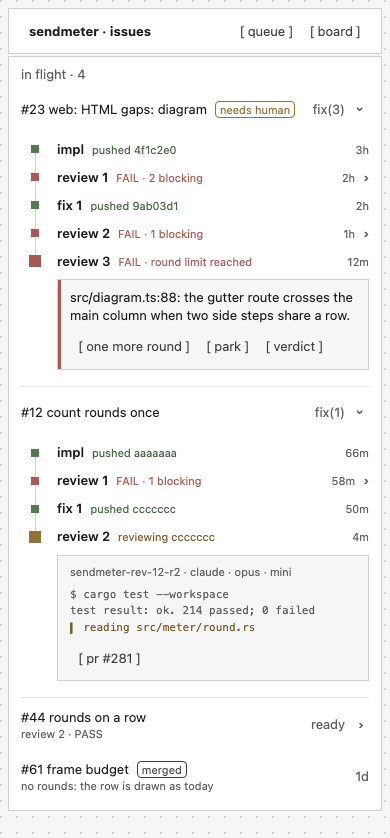
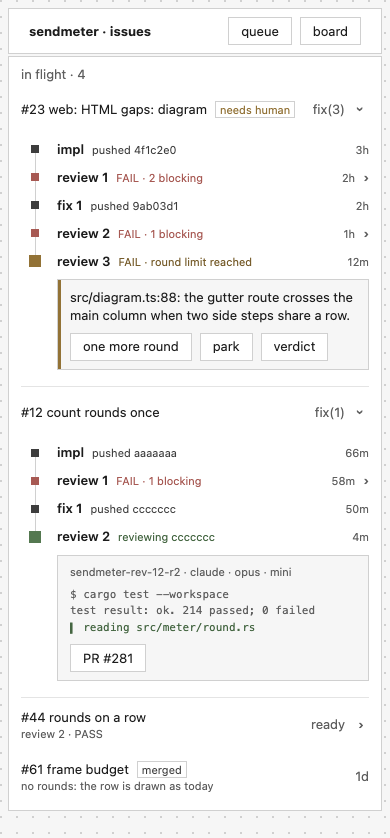
design(#44): rounds: the scene's state colours (q2186), box buttons and grey-edged square tags per #53/#57

diff --git a/docs/design/rounds/states.html b/docs/design/rounds/states.html
@@ -9,14 +9,14 @@
 <script>
 const R = (name, state, summary, extra = {}) => ({ id: name, name, state, summary, since: "5m", ...extra });
 const cases = [
-  ["1 · markers and tones", "A square marker per round on a 1px rail, 8px; the current (last) round's is 12px. Green: done, merged. Red: fail, needs. Ochre: working. Grey: idle. The summary takes the same tone as text.", [
+  ["1 · markers and tones", "A square marker per round on a 1px rail, 8px; the current (last) round's is 12px. The state table of the scene and the diagram: working and merged green, needs ochre, fail brick red, done ink, idle a hollow square. The summary takes the tone of its marker.", [
     [{ id: "a", title: "every state", rounds: [R("idle", "idle", "not started"), R("done", "done", "pushed 4f1c2e0"), R("merged", "merged", "into staging"), R("fail", "fail", "FAIL · 2 blocking"), R("needs", "needs", "waits on you"), R("working", "working", "running")] }, true]]],
   ["2 · folded and open", "A row with rounds is a fold: a tap toggles it, and its chevron turns. Folded, it is today's row plus the chevron. Open, the subtitle hides (the rounds say it). It opens by itself when the last round needs you.", [
     [{ id: "b", title: "#12 folded", subtitle: "review 2 · PASS", value: "ready", rounds: [R("review 1", "fail", "FAIL"), R("review 2", "done", "PASS")] }],
     [{ id: "c", title: "#23 open by itself", subtitle: "hidden while open", value: "fix(3)", rounds: [R("review 2", "fail", "FAIL"), R("review 3", "needs", "round limit reached", { links: [{ label: "one more round" }, { label: "park" }] })] }]]],
   ["3 · a past round's tap", "A past round with a tap is a button (or a link for a url) with a chevron; one without a tap is plain text. The current round's line never taps: its body holds the actions.", [
     [{ id: "d", title: "#7 taps", rounds: [R("review 1", "fail", "FAIL · tap opens the verdict", { tap: { sheet: "/v/1" } }), R("fix 1", "done", "no tap"), R("review 2", "working", "the current round")] }, true]]],
-  ["4 · the current round's body", "Only the last round draws a body, in order: its lane (name · harness · model · host, then its lines in mono; a working round's last line is live in ochre), its blocks, its links as buttons. A body with none of them is not drawn. A needs round's body gets a 3px red edge marker, never a red border.", [
+  ["4 · the current round's body", "Only the last round draws a body, in order: its lane (name · harness · model · host, then its lines in mono; a working round's last line is live in green), its blocks, its links as buttons. A body with none of them is not drawn. A needs round's body gets a 3px ochre edge marker, never a coloured border.", [
     [{ id: "e", title: "lane only", rounds: [R("impl", "working", "writing", { lane: { name: "blocks-impl-44", harness: "claude", host: "mini", lines: ["web/src/render/row.ts +38", "running just test"] } })] }, true],
     [{ id: "f", title: "nothing to show", rounds: [R("impl", "done", "pushed 1d2e3f4"), R("review 1", "idle", "queued")] }, true]]],
   ["5 · long text", "Name and summary are one line each and end in \"…\"; the name keeps at least 40% of the line, the time never shrinks. Lane lines end in \"…\" too, never wrap.", [

diff --git a/docs/design/rounds/rounds.css b/docs/design/rounds/rounds.css
@@ -7,19 +7,20 @@
 .rd{position:relative;display:grid;grid-template-columns:var(--ctl) minmax(0,1fr);column-gap:var(--s2)}
 .rdm{position:relative;z-index:1;place-self:start center;margin-top:calc(var(--ctl) / 2 - 4px);width:8px;height:8px;background:var(--mute);border-radius:var(--radius,0)}
 .rd.now>.rdm{margin-top:calc(var(--ctl) / 2 - 6px);width:12px;height:12px}
-.rd.done>.rdm,.rd.merged>.rdm{background:var(--g)}.rd.working>.rdm{background:var(--a)}.rd.fail>.rdm,.rd.needs>.rdm{background:var(--r)}
+.rd.working>.rdm,.rd.merged>.rdm{background:var(--g)}.rd.needs>.rdm{background:var(--a)}.rd.fail>.rdm{background:var(--r)}.rd.done>.rdm{background:var(--l)}
+.rd.idle>.rdm{background:none;box-shadow:inset 0 0 0 1px var(--mute)}
 .rdl{display:flex;align-items:baseline;gap:var(--s2);min-height:var(--ctl);padding:calc((var(--ctl) - 1.4em) / 2) 0;box-sizing:border-box;color:inherit;text-decoration:none}
 .rdl.tap{cursor:pointer}.rdl.tap:focus-visible{outline:2px solid var(--l);outline-offset:2px}
 .rdn{flex:none;max-width:60%;font-weight:600;white-space:nowrap;overflow:hidden;text-overflow:ellipsis}
 .rdu{flex:1;min-width:0;color:var(--mute);font-size:var(--fs-meta);white-space:nowrap;overflow:hidden;text-overflow:ellipsis}
-.rd.done .rdu,.rd.merged .rdu{color:var(--fk-g)}.rd.working .rdu{color:var(--fk-a)}.rd.fail .rdu,.rd.needs .rdu{color:var(--r)}
+.rd.working .rdu,.rd.merged .rdu{color:var(--fk-g)}.rd.needs .rdu{color:var(--fk-a)}.rd.fail .rdu{color:var(--r)}.rd.done .rdu{color:var(--fk-l)}
 .rdt{flex:none;margin-left:auto;color:var(--mute);font-size:var(--fs-meta);white-space:nowrap}
 .rdl .rc{flex:none;color:var(--mute);font-weight:700}
 .rdb{display:flex;flex-direction:column;gap:var(--s2);margin:var(--s1) 0 var(--s1);padding:var(--s2) var(--s3);border:1px solid var(--edge);border-radius:var(--radius,0);background:var(--bg)}
-.rd.needs .rdb{box-shadow:inset 3px 0 0 var(--r)}
+.rd.needs .rdb{box-shadow:inset 3px 0 0 var(--a)}
 .rdh{color:var(--mute);font-size:var(--fs-meta)}
 .rdo{margin:0;padding:0;font:var(--fs-meta)/1.5 ui-monospace,SFMono-Regular,Menlo,monospace;color:var(--mute)}
 .rdo>div{white-space:pre;overflow:hidden;text-overflow:ellipsis}
-.rdo .live{color:var(--fk-a)}
-.rdk{display:flex;flex-wrap:wrap;gap:var(--s2) var(--s4);padding:0 var(--s2)}
+.rdo .live{color:var(--fk-g)}
+.rdk{display:flex;flex-wrap:wrap;gap:var(--s2)}
 .rdb>.txt{margin:0}

diff --git a/docs/design/rounds/page.css b/docs/design/rounds/page.css
@@ -1,4 +1,4 @@
-/* The host page for these previews only: #53's built-in default pair as merged (web/src/gen/schemes.ts, defaultStyle), light on :root, dark by the OS; square tiles, 2px seam, dot grid. */
+/* The host page for these previews only, with the shared controls as #53/#57 draw them (box buttons, square tags with a grey edge), not today's renderer: #53's built-in default pair as merged (web/src/gen/schemes.ts, defaultStyle), light on :root, dark by the OS; square tiles, 2px seam, dot grid. */
 :root{color-scheme:light dark;
 --bg:#f6f6f6;--card:#ffffff;--edge:#d0d0d0;--line:#e4e4e4;--scrim:#0000004d;--fg:#1c1c1c;--mute:#5e5e5e;
 --l:#3d3d3d;--link:#3d3d3d;--g:#547850;--a:#927236;--r:#a75953;--p:#74678e;--c:#3c797d;
@@ -17,3 +17,8 @@ main{max-width:880px;margin:0 auto;padding:var(--s4);display:grid;grid-template-
 .note{color:var(--mute);font-size:var(--fs-meta);margin:var(--s1) 0 var(--s2)}
 .cases{display:grid;grid-template-columns:repeat(auto-fill,minmax(320px,1fr));gap:var(--seam)}
 @media (max-width:600px){main{padding:var(--s2)}.tile{padding:var(--s2) var(--s3)}}
+button,a.btn{height:var(--ctl);padding:0 var(--s3);border:1px solid var(--edge);background:var(--card);color:var(--fg);text-transform:none}
+button::before,a.btn::before,button::after,a.btn::after{content:none}
+button:hover,a.btn:hover{border-color:var(--mute)}
+.tag{border:1px solid var(--edge);border-radius:0}
+.tabh{display:flex;align-items:center;gap:var(--s2)}.tabh>.tw{margin-right:auto}

diff --git a/docs/design/rounds/README.md b/docs/design/rounds/README.md
@@ -1,21 +1,21 @@
 ## Summary
 
-Decision: on the web, a row that carries `rounds` becomes a fold, as on Swift. Folded, it is today's row plus a chevron. Open, its rounds hang under it on a thin rail: one line per round (name, a short summary in its state colour, its age), a small square marker in the state colour, the last round's marker larger. Only the last round shows a body: its lane and live log lines, its blocks, its links as buttons. It opens by itself when the last round needs you. A row with no rounds is drawn exactly as today. Look: #53's merged default pair, colour only in markers and text.
+Decision: on the web, a row that carries `rounds` becomes a fold, as on Swift. Folded, it is today's row plus a chevron. Open, its rounds hang under it on a thin rail: one line per round (name, a short summary, its age) and a small square marker, the last round's larger. Only the last round shows a body: its lane and live log lines, its blocks, its links as buttons. It opens by itself when the last round needs you. A row with no rounds is drawn exactly as today. Revised (q2186), colours only: the state table of the scene design and the diagram (working and merged green, needs ochre, fail brick red, done ink, idle a hollow square); a summary takes its marker's tone. Shared controls follow #53/#57: box buttons, square tags with a grey edge.
 Screens: an issue list with four rows (needs you and open by itself, working and opened, folded, no rounds), and a sheet of every state. Each light and dark, at 1440 and 390.
-Open questions: (1) Swift draws round markers as circles; I made them square to match #53's square markers. Keep square? (2) Should the fold's open or shut state survive a redraw only (like other folds, `c.open`), or be remembered across visits? I assumed redraw only.
+Open questions: none. Markers stay square; the fold's state lasts for the visit only, as decided in q2186.
 
 ## Images
 
 | Image | What it shows |
 |---|---|
-| `rounds-light-1440.png`, `rounds-dark-1440.png` | An issue list tile. `#23` ends in a `needs` round, so it is open without a tap: five rounds on the rail, past ones with a verdict tap show `›`; the last (`review 3`) has a 12px red marker and a body with its text block and three link buttons, edged by a 3px red marker on the left. `#12` was opened by a tap: its current round is `working` (ochre), its body shows the lane head (`name · harness · model · host`), its log lines in mono with the live last line in ochre after `▍`, and a link button. While open, a row's subtitle hides and its chevron points down. `#44` is folded: today's row plus `›`. `#61` has no rounds and is today's row, unchanged |
+| `rounds-light-1440.png`, `rounds-dark-1440.png` | An issue list tile. `#23` ends in a `needs` round, so it is open without a tap: five rounds on the rail, past ones with a verdict tap show `›`; the last (`review 3`) has a 12px ochre marker and an ochre summary, and a body with its text block and three box buttons, edged by a 3px ochre marker on the left. Done rounds have ink markers, fail rounds brick red. `#12` was opened by a tap: its current round is `working` (green), its body shows the lane head (`name · harness · model · host`), its log lines in mono with the live last line in green after `▍`, and a box button. While open, a row's subtitle hides and its chevron points down. `#44` is folded: today's row plus `›`. `#61` has no rounds and is today's row, unchanged |
 | `rounds-light-390.png`, `rounds-dark-390.png` | The same at phone width: nothing scrolls sideways; summaries and log lines end in "…" |
-| `states-light-*.png`, `states-dark-*.png` | 1 markers and tones for every state (green done/merged, red fail/needs, ochre working, grey idle). 2 folded vs open, and open by itself on `needs`. 3 a past round with a tap (button, or link for a url, with `›`) vs without; the current round's line never taps. 4 the body: lane only; a last round with no lane, blocks or links draws no body. 5 long names, summaries and log lines cut with "…", the time never shrinks. 6 no rounds or an empty list: the row as today |
+| `states-light-*.png`, `states-dark-*.png` | 1 markers and tones for every state (green working/merged, ochre needs, brick red fail, ink done, hollow square idle). 2 folded vs open, and open by itself on `needs`. 3 a past round with a tap (button, or link for a url, with `›`) vs without; the current round's line never taps. 4 the body: lane only; a last round with no lane, blocks or links draws no body. 5 long names, summaries and log lines cut with "…", the time never shrinks. 6 no rounds or an empty list: the row as today |
 
 ## What impl builds
 
 - `web/src/render/row.ts`: when `b.rounds` is non-empty, wrap the row in `div.rr` (`.open` when open). The row line gets `role=button`, `tabindex=0`, `aria-expanded`, a trailing `span.rc` "›", and its click toggles the fold (the row's own `tap` is not used then, as on Swift). Open = (last round is `needs`) XOR the user flipped it; the flip is kept in `c.open` under the row id, so a redraw keeps it. While open the subtitle is left out.
 - Open: an `ol.rds` of `li.rd.<state>` (`.now` on the last), each with `i.rdm` (the marker, `aria-label` = its state) and a line `.rdl` holding `.rdn` name, `.rdu` summary, `.rdt` since (through `ticked`, like a row value) and, for a past round with a tap, `.rc` "›"; that line is an `a` for a `url` tap, else `role=button` calling `c.tap`.
 - The last round's `.rdb` body, only if it has a lane, blocks or links: `.rdh` lane head, `.rdo` lines (the last one `.live` with "▍ " while `working`), its `blocks` through `kids`, its `links` as `btn`s calling `c.tap`.
-- CSS: `rounds.css` here (about 25 rules, tokens only, square corners) goes into `web/src/blocks.css`. `page.css` only stands in for the host page.
+- CSS: `rounds.css` here (about 26 rules, tokens only, square corners; the same state table as `scene`'s `.lnm`) goes into `web/src/blocks.css`. `page.css` only stands in for the host page and for #53/#57's shared controls (box buttons, square tags with a grey edge); impl takes those from #57, not from here.
 - `rounds.js` here is a preview-only drawing used for these images, not product code. Images: `./render.sh` (Playwright's cached headless Chromium, light and dark, reduced motion).
